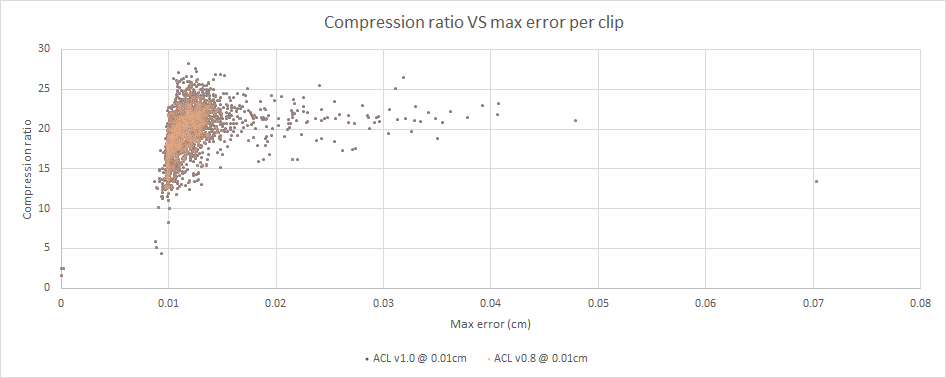
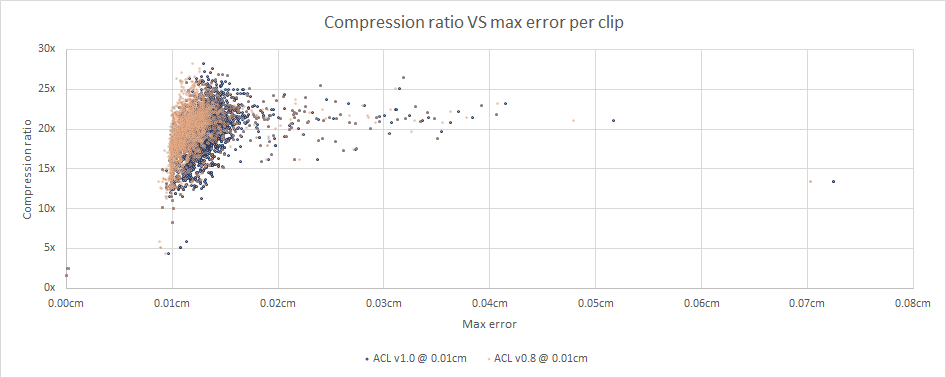
Updating compression stats to reflect latest bug fixes.

diff --git a/docs/paragon_performance.md b/docs/paragon_performance.md
@@ -1,5 +1,19 @@
 # Paragon database performance
 
+|                       | v1.0.0        | v0.8.0        | v0.7.0        |
+| -------               | --------      | --------      | --------      |
+| **Compressed size**   | 206.57 MB     | 206.09 MB     | 205.58 MB     |
+| **Compression ratio** | 20.70 : 1     | 20.75 : 1     | 20.80 : 1     |
+| **Max error**         | 7.0159 cm     | 3.8615 cm     | 3.8615 cm     |
+| **Compression time**  | 7h 57m 41.72s | 7h 30m 46.44s | 9h 43m 41.08s |
+
+Notes:
+
+*  The error is unusually high and above **1cm** for **6** exotic clips
+*  **v1.0.0** is **NOT** less accurate, a bug was fixed that partially hid the true error with 3D scale in prior versions
+
+# Data and method used
+
 To compile these statistics, a large number of animations from [Paragon](https://www.epicgames.com/paragon) are used.
 
 In *October 2017* the animations were manually extracted and converted to the [ACL file format](the_acl_file_format.md) losslessly. The data is sadly **NOT** available upon request.
@@ -26,23 +40,6 @@ ACL supports various compression methods but only the overall best variant will 
 The error is measured **3cm** away from each bone to simulate the visual mesh skinning process as described [here](error_metrics.md).
 
 The performance of ACL in Unreal Engine 4 is tracked by the plugin [here](https://github.com/nfrechette/acl-ue4-plugin/blob/develop/Docs/paragon_performance.md).
-
-# Summary
-
-*  Compressed size: **206.09 MB**
-*  Compression ratio: **20.75 : 1**
-*  Max error: **3.8615** centimeters
-*  Compression time: **07h 48m 52.03s** (single threaded)
-*  Compression time: **02h 06m 34.97s** (multi threaded on 4 cores)
-
-Notes:
-
-*  You can compress any number of clips in parallel with multiple threads but each clip uses a single thread for now.
-*  The error is unusually high (above **1cm**) for **6** exotic clips.
-
-**Results from release [1.0.0](https://github.com/nfrechette/acl/releases/tag/v1.0.0)**
-
-See [here](paragon_performance_history.md) for a history of performance progress across the various releases.
 
 # Results in images
 

diff --git a/docs/cmu_performance.md b/docs/cmu_performance.md
@@ -1,5 +1,14 @@
 # Carnegie-Mellon University database performance
 
+|                        | v1.0.0     | v0.8.0     | v0.7.0     |
+| -------                | --------   | --------   | --------   |
+| **Compressed size**    | 67.02 MB   | 67.02 MB   | 67.04 MB   |
+| **Compression ratio**  | 21.33 : 1  | 21.33 : 1  | 21.32 : 1  |
+| **Max error**          | 0.0725 cm  | 0.0703 cm  | 0.0479 cm  |
+| **Compression time**   | 37m 47.76s | 36m 27.22s | 51m 24.01s |
+
+# Data and method used
+
 To compile the statistics, the [animation database from Carnegie-Mellon University](http://mocap.cs.cmu.edu/) is used.
 The raw animation clips in FBX form can be found on the Unity asset store [here](https://www.assetstore.unity3d.com/en/#!/content/19991).
 They were converted to the [ACL file format](the_acl_file_format.md) using the [fbx2acl](../tools/fbx2acl) script. Data available upon request, it is far too large for GitHub.
@@ -14,20 +23,6 @@ ACL supports various compression methods but only the overall best variant will 
 The error is measured **3cm** away from each bone to simulate the visual mesh skinning process as described [here](error_metrics.md).
 
 The performance of ACL in Unreal Engine 4 is tracked by the plugin [here](https://github.com/nfrechette/acl-ue4-plugin/blob/develop/Docs/cmu_performance.md).
-
-# Summary
-
-*  Compressed size: **67.02 MB**
-*  Compression ratio: **21.33 : 1**
-*  Max error: **0.0703** centimeters (clip *83_11*)
-*  Compression time: **37m 13.14s** (single threaded)
-*  Compression time: **10m 11.49s** (multi threaded on 4 cores)
-
-Note that you can compress any number of clips in parallel with multiple threads but each clip uses a single thread for now.
-
-**Results from release [1.0.0](https://github.com/nfrechette/acl/releases/tag/v1.0.0)**
-
-See [here](cmu_performance_history.md) for a history of performance progress across the various releases.
 
 # Results in images
 

diff --git a/docs/fight_scene_performance.md b/docs/fight_scene_performance.md
@@ -1,5 +1,14 @@
 # Matinee fight scene performance
 
+|                          | v1.0.0     | v0.8.0     | v0.7.0     |
+| -------                  | --------   | --------   | --------   |
+| **Compressed size**      | 8.66 MB    | 8.66 MB    | 8.67 MB    |
+| **Compression ratio**    | 7.20 : 1   | 7.20 : 1   | 7.20 : 1   |
+| **Max error**            | 0.0618 cm  | 0.217 cm   | 0.245 cm   |
+| **Compression time**     | 1m 13.49s  | 1m 4.53s   | 2m 9.26s   |
+
+# Data and method used
+
 To compile these statistics, the [Matinee fight scene](http://nfrechette.github.io/2017/10/05/acl_in_ue4/) is used.
 
 *  Number of clips: **5**
@@ -13,11 +22,3 @@ ACL supports various compression methods but only the overall best variant will 
 The error is measured **3cm** away from each bone to simulate the visual mesh skinning process as described [here](error_metrics.md).
 
 The performance of ACL in Unreal Engine 4 is tracked by the plugin [here](https://github.com/nfrechette/acl-ue4-plugin/blob/develop/Docs/fight_scene_performance.md).
-
-|         | ACL v1.0.0 |
-| ------- | -------- |
-| **Compressed size** | 8.66 MB |
-| **Compression ratio**    | 7.20 : 1 |
-| **Max error**                  | 0.0618 cm |
-| **Compression time**     | 02m 08.14s |
-
